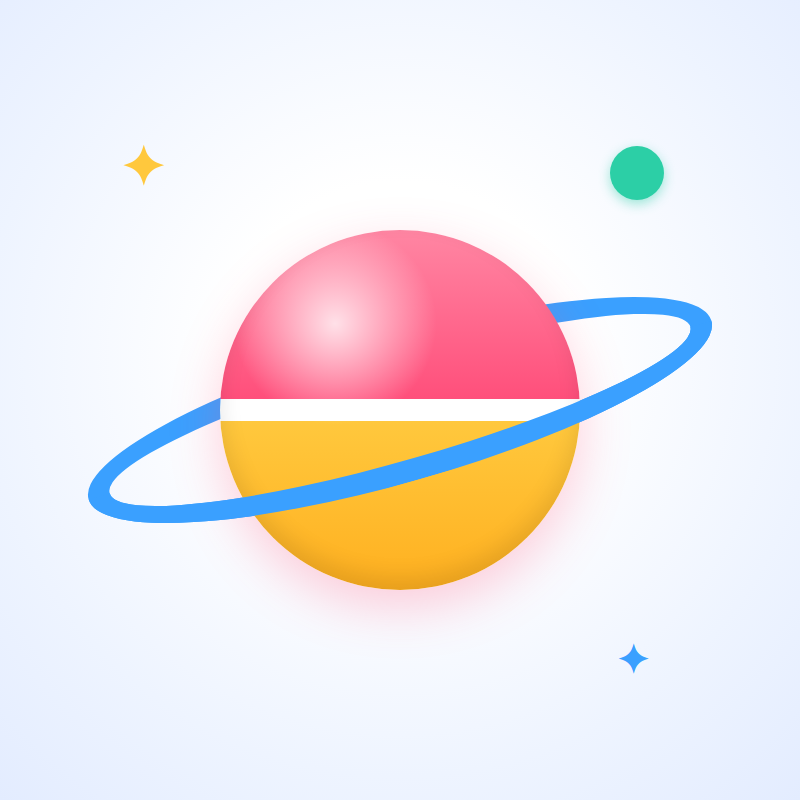
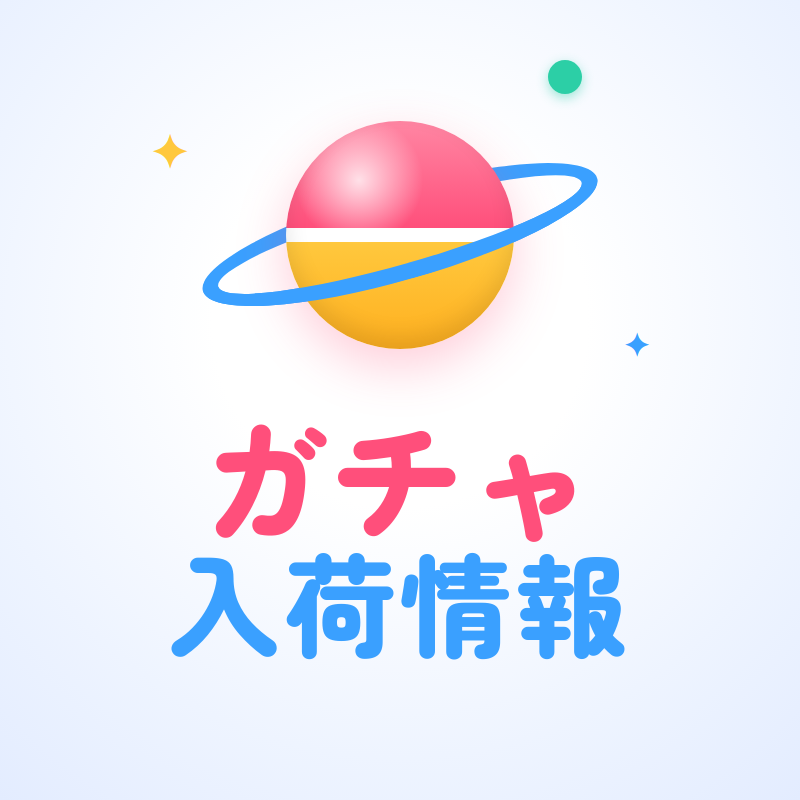
Xのアイコンに「ガチャ 入荷情報」の文字を入れる
Claude-Session: https://claude.ai/code/session_01CDwdkXnTht9LFBeNzwrw2i

Changed region(s): [[0.0938, 0.125, 0.9062, 0.8438], [0.6875, 0.0625, 0.75, 0.125], [0.1562, 0.1562, 0.2188, 0.2188]]

diff --git a/brand/icon.html b/brand/icon.html
@@ -1,11 +1,14 @@
 <!doctype html><meta charset="utf-8"><link rel="stylesheet" href="common.css">
 <style>
-body { width: 800px; height: 800px; background: radial-gradient(circle at 50% 45%, #ffffff 0 30%, #eef4ff 70%, #e3ecff 100%); position: relative; }
-.planet { width: 600px; left: 100px; top: 110px; }
-.ring { border-width: 22px; }
-.moon { top: 6%; right: 6%; }
-.star.a { left: 120px; top: 140px; font-size: 54px; }
-.star.b { right: 150px; bottom: 120px; font-size: 40px; color: #3aa0ff; }
+body { width: 800px; height: 800px; background: radial-gradient(circle at 50% 40%, #ffffff 0 30%, #eef4ff 70%, #e3ecff 100%); position: relative; }
+.planet { width: 380px; left: 210px; top: 45px; }
+.ring { border-width: 16px; }
+.moon { top: 4%; right: 2%; }
+.txt { position: absolute; left: 0; right: 0; top: 408px; text-align: center; font-family: "Zen Maru Gothic", sans-serif; font-weight: 900; line-height: 1.05; }
+.txt .a { color: #ff4f7b; display: block; font-size: 128px; letter-spacing: 6px; } .txt .b { color: #3aa0ff; display: block; font-size: 112px; letter-spacing: 4px; }
+.star.a { left: 150px; top: 130px; font-size: 46px; }
+.star.b { right: 150px; top: 330px; font-size: 32px; color: #3aa0ff; }
 </style>
 <div class="planet"><i class="ring"></i><i class="orb"></i><i class="ring front"></i><i class="moon"></i></div>
 <span class="star a">✦</span><span class="star b">✦</span>
+<div class="txt"><span class="a">ガチャ</span><span class="b">入荷情報</span></div>
